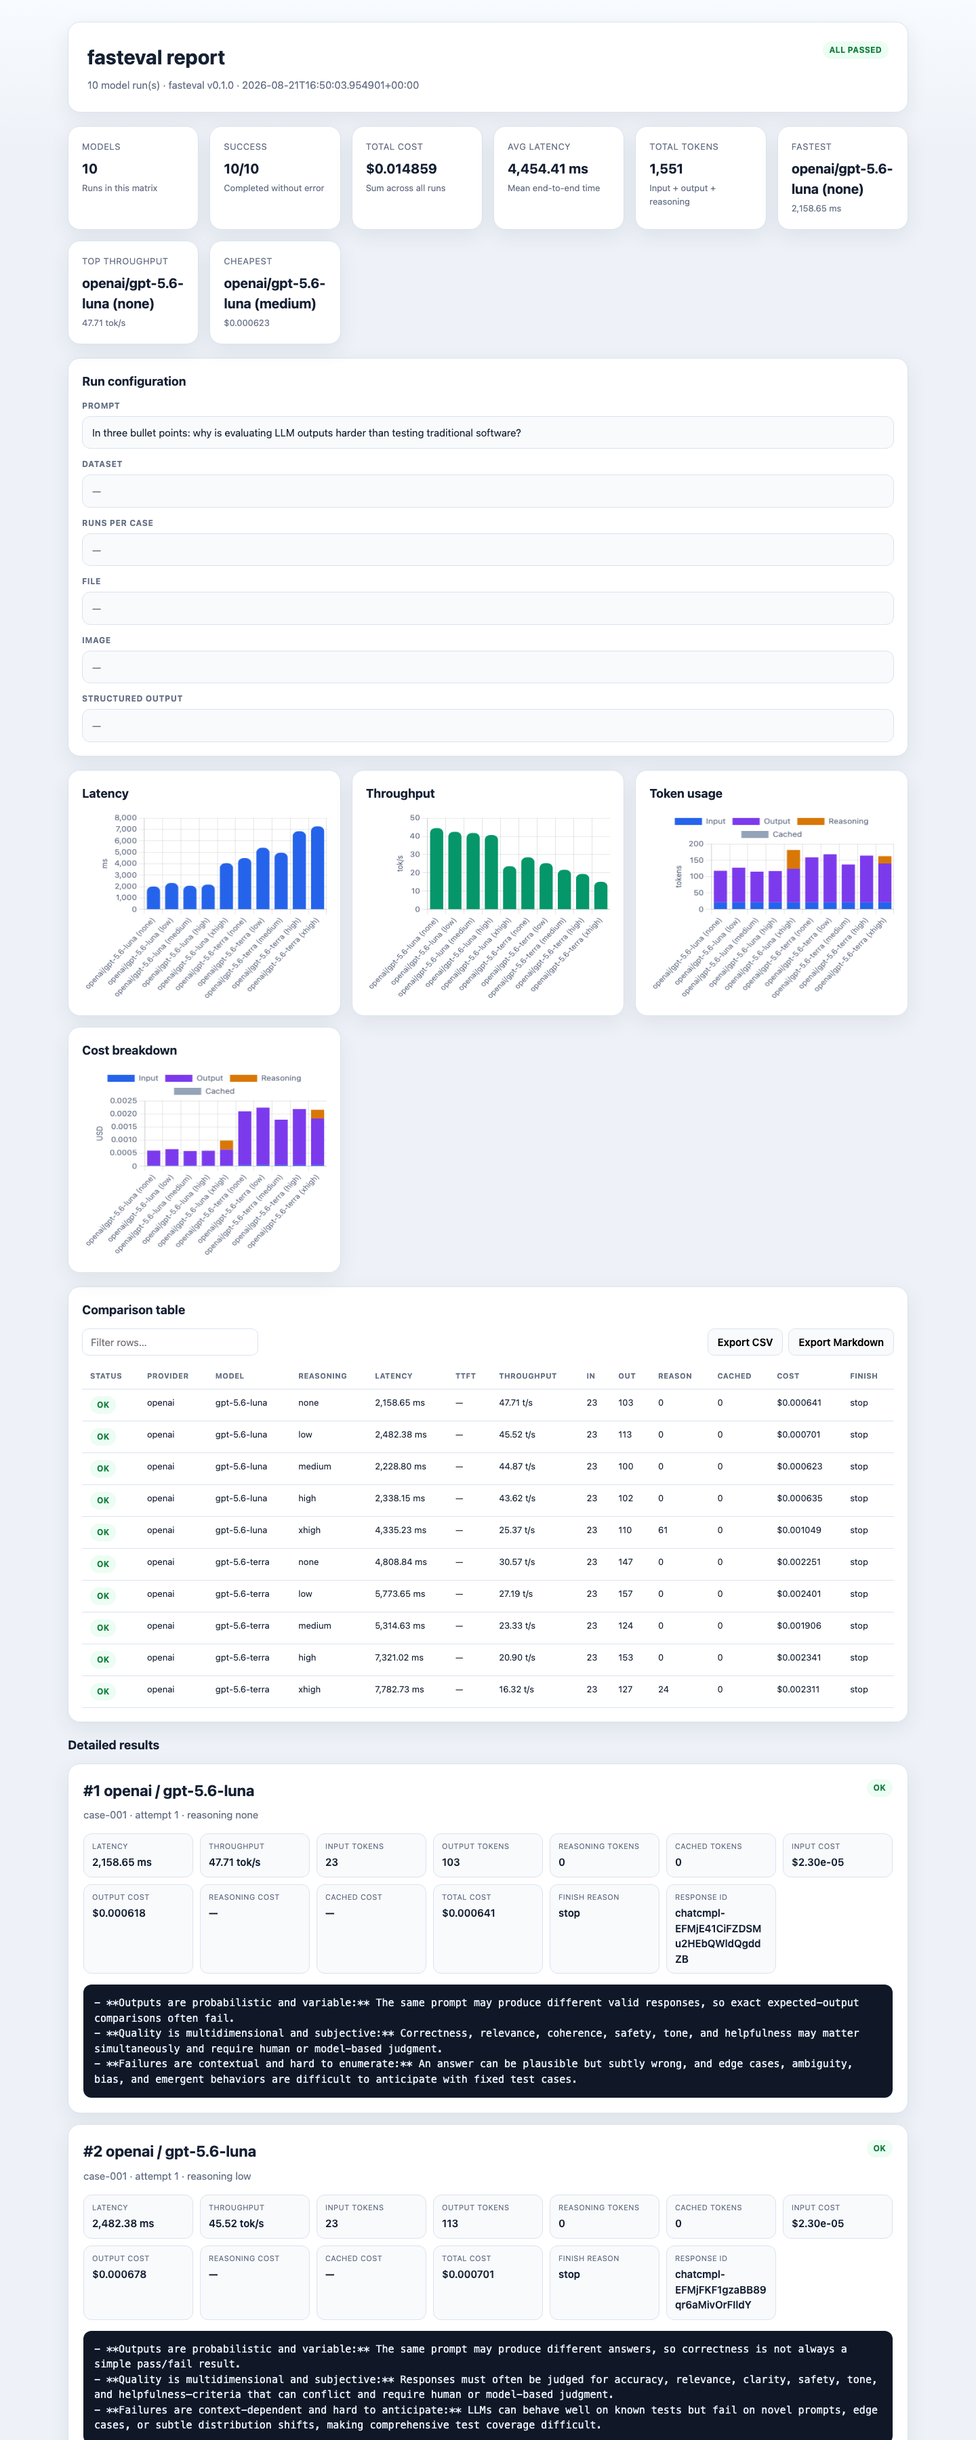
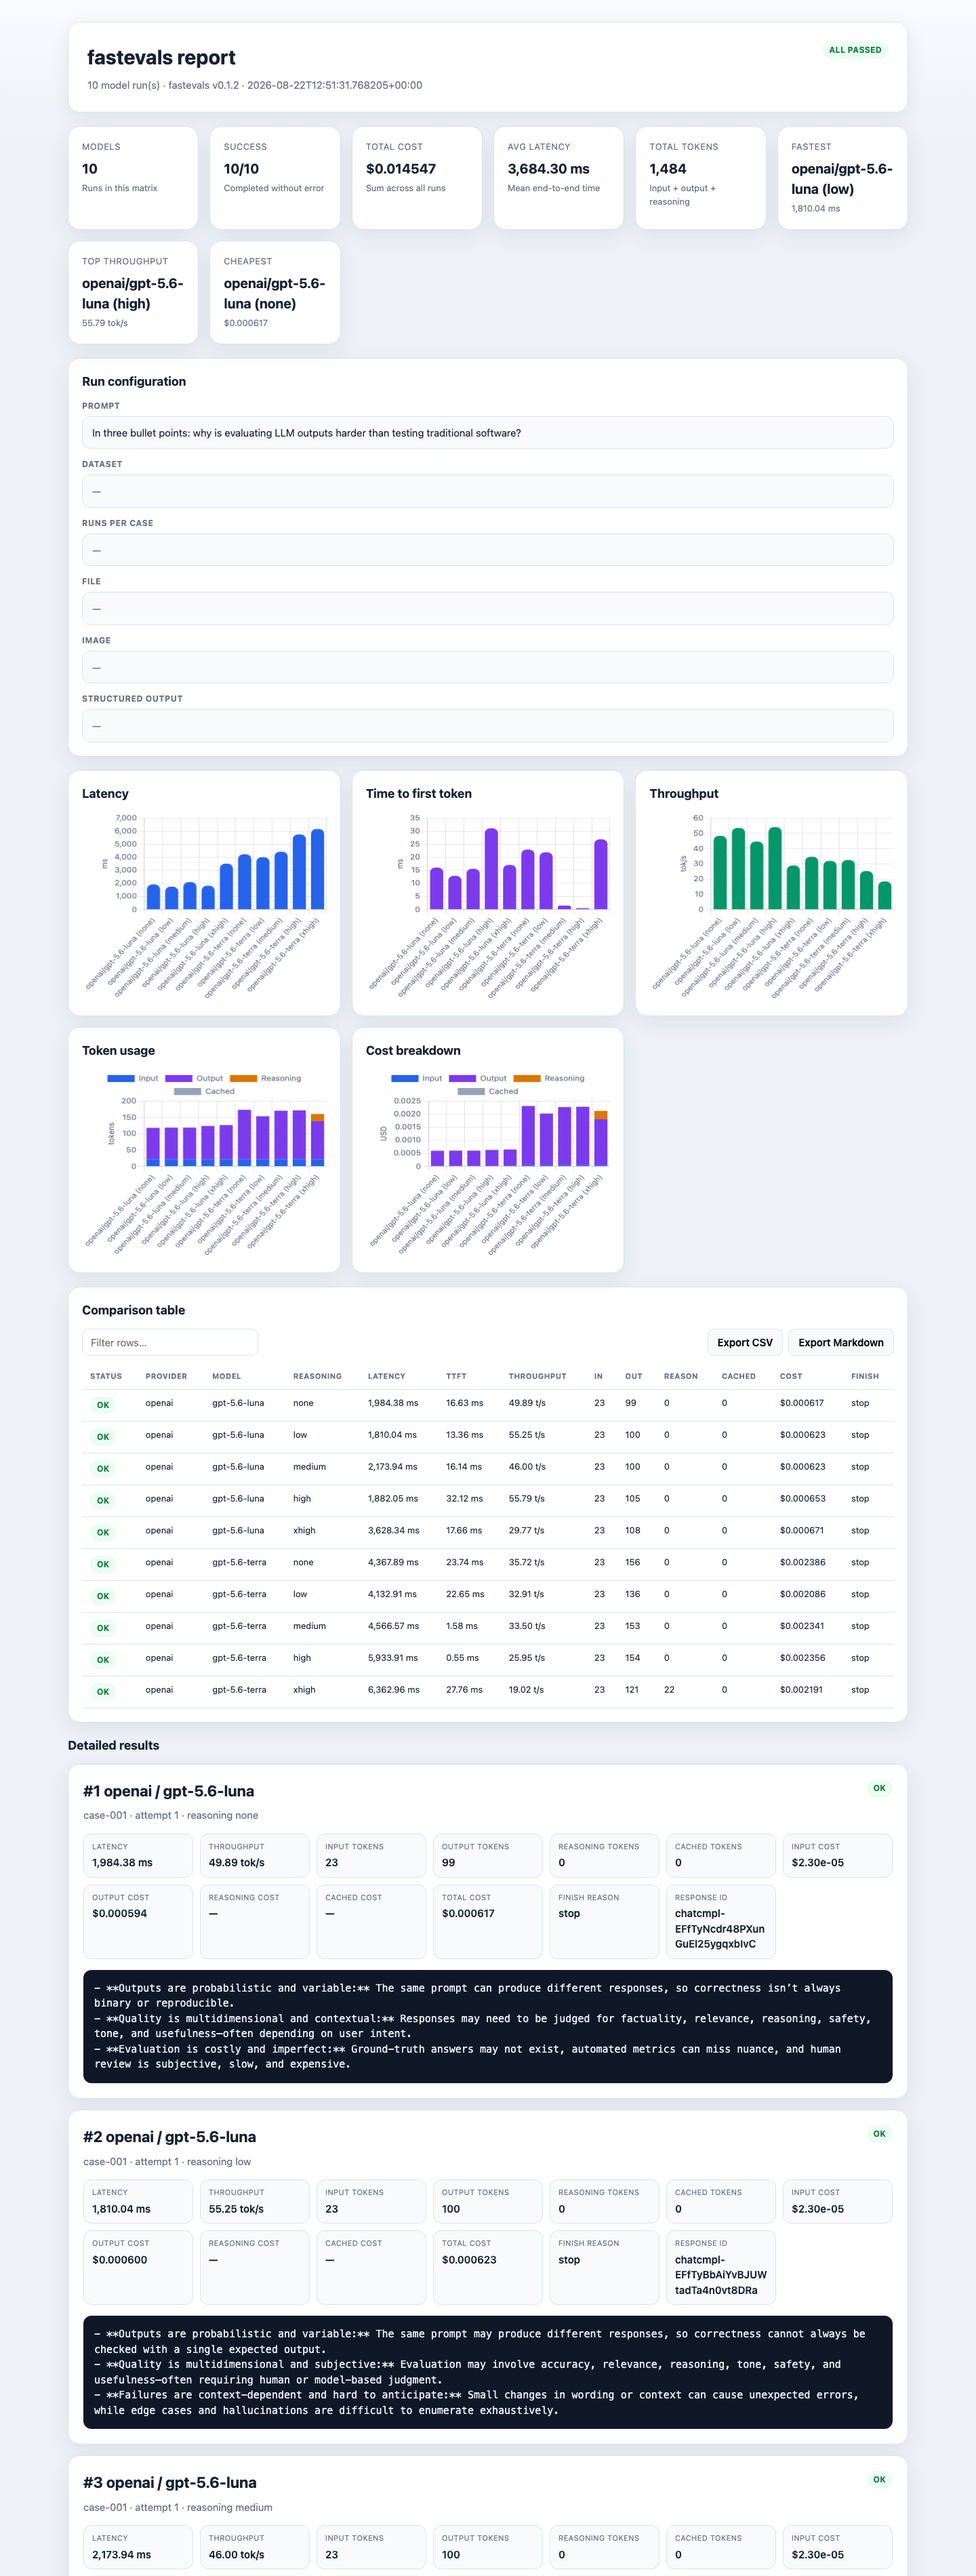
Stream completions by default: real time-to-first-token metric
- call_model streams via litellm (stream_options.include_usage) and
  measures TTFT from the first content chunk; token accounting comes
  from the final usage chunk
- Providers/stubs that cannot stream fall back to plain parsing with
  TTFT reported honestly as unavailable — zero breaking change for
  existing integrations, covered by dedicated tests both ways
- Dashboard gains a Time-to-first-token chart next to latency; the
  comparison table now shows measured values instead of dashes
- README limitation replaced by a feature; ROADMAP streaming item done

diff --git a/fastevals/providers.py b/fastevals/providers.py
@@ -4,6 +4,7 @@ import asyncio
 import base64
 import mimetypes
 import os
+import time
 from pathlib import Path
 from typing import Any
 
@@ -117,6 +118,8 @@ def _build_request(
         "messages": build_messages(prompt, file_paths or None),
         "api_key": api_key,
         "timeout": spec.timeout_s,
+        "stream": True,
+        "stream_options": {"include_usage": True},
     }
     if spec.reasoning_effort and spec.reasoning_effort not in ("off", "none"):
         request["reasoning_effort"] = spec.reasoning_effort
@@ -154,4 +157,60 @@ async def call_model(
             if attempt == attempts - 1:
                 raise
             await _sleep(RETRY_BASE_DELAY_S * (2**attempt))
-    return parse_response(response)
+    return await _finalize_response(response)
+
+
+async def _finalize_response(response: Any) -> ModelResponse:
+    """Prefer streamed chunks (gives a real TTFT), fall back to plain parsing.
+
+    Providers and stubs that do not stream surface as iteration errors on
+    the returned object; the non-streaming parse then applies unchanged.
+    """
+    try:
+        return await _consume_stream(response)
+    except (TypeError, AttributeError):
+        return parse_response(response)
+
+
+async def _consume_stream(stream: Any) -> ModelResponse:
+    started = time.perf_counter()
+    ttft_ms: float | None = None
+    parts: list[str] = []
+    usage: Any = None
+    finish_reason: str | None = None
+    response_id: str | None = None
+
+    async for chunk in stream:
+        choices = getattr(chunk, "choices", None) or []
+        if not choices:
+            usage = getattr(chunk, "usage", None) or usage
+            continue
+        first = choices[0]
+        delta_content = getattr(getattr(first, "delta", None), "content", None) or getattr(first, "text", None)
+        if delta_content:
+            if ttft_ms is None:
+                ttft_ms = (time.perf_counter() - started) * 1000
+            parts.append(delta_content)
+        if getattr(first, "finish_reason", None):
+            finish_reason = first.finish_reason
+        if getattr(chunk, "usage", None):
+            usage = chunk.usage
+        response_id = getattr(chunk, "id", None) or response_id
+
+    if not parts and usage is None and finish_reason is None:
+        # Nothing stream-shaped arrived; let the caller fall back.
+        raise TypeError("response is not a completion stream")
+
+    text = "".join(parts)
+    cached = getattr(getattr(usage, "prompt_tokens_details", None), "cached_tokens", 0) or 0
+    reasoning = getattr(getattr(usage, "completion_tokens_details", None), "reasoning_tokens", 0) or 0
+    return ModelResponse(
+        text=text,
+        input_tokens=max(0, (getattr(usage, "prompt_tokens", 0) or 0) - cached),
+        output_tokens=max(0, (getattr(usage, "completion_tokens", 0) or 0) - reasoning),
+        cached_tokens=cached,
+        reasoning_tokens=reasoning,
+        finish_reason=finish_reason or "completed",
+        response_id=response_id or "",
+        time_to_first_token_ms=ttft_ms,
+    )

diff --git a/tests/test_runner_run.py b/tests/test_runner_run.py
@@ -3,6 +3,7 @@ from pathlib import Path
 
 import pytest
 
+from fastevals import providers
 from fastevals.config import RunConfig
 from fastevals.exceptions import ConfigError, FastEvalError
 from fastevals.runner import run_evals
@@ -216,3 +217,58 @@ async def test_unknown_tag_in_run_fails_with_guidance(tmp_path, openai_registry,
         await run_evals(RunConfig(prompt="hi", registry=str(openai_registry), tag="nope"))
     assert "saved:" in str(excinfo.value)
     assert "built-in: auto-cheap" in str(excinfo.value)
+
+
+def _stream_chunks(text="streamed answer", prompt_tokens=100, completion_tokens=30):
+    """Build an async iterator shaped like a litellm streaming response."""
+    from types import SimpleNamespace
+
+    async def _stream(**request):
+        async def gen():
+            for part in (text[:4], text[4:]):
+                if not part:
+                    continue
+                yield SimpleNamespace(
+                    choices=[SimpleNamespace(delta=SimpleNamespace(content=part), finish_reason=None)],
+                    usage=None,
+                    id="chatcmpl-stream",
+                )
+            yield SimpleNamespace(
+                choices=[],
+                usage=SimpleNamespace(
+                    prompt_tokens=prompt_tokens,
+                    completion_tokens=completion_tokens,
+                    prompt_tokens_details=SimpleNamespace(cached_tokens=0),
+                    completion_tokens_details=SimpleNamespace(reasoning_tokens=0),
+                ),
+            )
+            yield SimpleNamespace(
+                choices=[SimpleNamespace(delta=SimpleNamespace(content=None), finish_reason="stop")],
+                usage=None,
+                id="chatcmpl-stream",
+            )
+
+        return gen()
+
+    return _stream
+
+
+@pytest.mark.asyncio
+async def test_streaming_measures_ttft_and_usage(tmp_path, monkeypatch, api_key, openai_registry):
+    monkeypatch.setattr(providers, "_litellm_completion", _stream_chunks())
+    results = await run_evals(RunConfig(prompt="hi", providers=frozenset({"openai"}), registry=str(openai_registry)))
+    row = results[0]
+    assert row.output == "streamed answer"
+    assert row.time_to_first_token_ms is not None
+    assert 0 < row.time_to_first_token_ms <= (row.latency_ms or 0)
+    assert row.input_tokens == 100 and row.output_tokens == 30
+
+
+@pytest.mark.asyncio
+async def test_non_stream_response_falls_back_to_plain_parse(tmp_path, fake_llm, api_key, openai_registry):
+    calls = fake_llm(text="plain")
+    results = await run_evals(RunConfig(prompt="hi", providers=frozenset({"openai"}), registry=str(openai_registry)))
+    assert all(row.output == "plain" for row in results)
+    # fallback path: TTFT honestly unknown without stream chunks
+    assert all(row.time_to_first_token_ms is None for row in results)
+    assert len(calls) == 2

diff --git a/fastevals/report.py b/fastevals/report.py
@@ -266,6 +266,7 @@ def _chart_payload(results: list[RunResult]) -> dict[str, Any]:
     return {
         "labels": labels,
         "latency_ms": [row.latency_ms or 0 for row in results],
+        "ttft_ms": [row.time_to_first_token_ms or 0 for row in results],
         "tokens_per_second": [row.tokens_per_second or 0 for row in results],
         "input_tokens": [row.input_tokens or 0 for row in results],
         "output_tokens": [row.output_tokens or 0 for row in results],
@@ -621,6 +622,7 @@ def render_html_report(config: RunConfig, results: list[RunResult], created_at: 
 
     <section class="grid charts-grid">
       <div class="card"><h2 class="section-title">Latency</h2><canvas id="latencyChart"></canvas></div>
+      <div class="card"><h2 class="section-title">Time to first token</h2><canvas id="ttftChart"></canvas></div>
       <div class="card"><h2 class="section-title">Throughput</h2><canvas id="throughputChart"></canvas></div>
       <div class="card"><h2 class="section-title">Token usage</h2><canvas id="tokensChart"></canvas></div>
       <div class="card"><h2 class="section-title">Cost breakdown</h2><canvas id="costChart"></canvas></div>
@@ -654,6 +656,25 @@ def render_html_report(config: RunConfig, results: list[RunResult], created_at: 
           label: "Latency (ms)",
           data: chartData.latency_ms,
           backgroundColor: statusColors,
+          borderRadius: 8,
+        }}],
+      }},
+      options: {{
+        responsive: true,
+        maintainAspectRatio: false,
+        plugins: {{ legend: {{ display: false }} }},
+        scales: {{ y: {{ beginAtZero: true, title: {{ display: true, text: "ms" }} }} }},
+      }},
+    }});
+
+    new Chart(document.getElementById("ttftChart"), {{
+      type: "bar",
+      data: {{
+        labels: chartData.labels,
+        datasets: [{{
+          label: "TTFT (ms)",
+          data: chartData.ttft_ms,
+          backgroundColor: "#7c3aed",
           borderRadius: 8,
         }}],
       }},

diff --git a/fastevals/runner.py b/fastevals/runner.py
@@ -87,7 +87,7 @@ async def run_evals(config: RunConfig) -> list[RunResult]:
                 response_id=response.response_id or "",
                 error="",
                 latency_ms=latency_ms,
-                time_to_first_token_ms=None,
+                time_to_first_token_ms=response.time_to_first_token_ms,
                 tokens_per_second=tokens_per_second,
             )
         except Exception as exc:  # Keep the matrix report useful when one provider fails.

diff --git a/fastevals/models.py b/fastevals/models.py
@@ -17,6 +17,7 @@ class ModelResponse:
     cached_tokens: int | None = None
     finish_reason: str | None = None
     response_id: str | None = None
+    time_to_first_token_ms: float | None = None
 
 
 @dataclass

diff --git a/README.md b/README.md
@@ -131,7 +131,7 @@ always reflect the current registry, so they never go stale.
 ## Why fastevals
 
 - **Structured output that verifies** — compact schema syntax compiles to JSON Schema, is sent to the provider, and every response is validated locally before it reaches `run.json`.
-- **Honest metrics** — disjoint token buckets (input / output / reasoning / cached), per-bucket pricing from your registry, no fake TTFT without streaming.
+- **Honest metrics** — disjoint token buckets (input / output / reasoning / cached), per-bucket pricing from your registry, real time-to-first-token via streamed completions.
 - **Real evaluation loop** — JSONL/CSV datasets, deterministic evaluators (`exact_match`, `contains`, `json_valid`, `regex`), repeated runs for stability.
 - **Boring engineering** — strict typing, ~90% branch coverage, ruff + mypy + coverage gates in CI, single-file reports with zero telemetry.
 
@@ -317,7 +317,7 @@ stub at the LiteLLM boundary; live API calls never run in CI.
 
 ## Limitations (by design)
 
-- No streaming yet — TTFT is reported as unavailable rather than faked; latency and throughput are end-to-end.
+- Streaming-dependent providers only: TTFT is measured from streamed completions; a provider that cannot stream reports it honestly as unavailable.
 - One prompt template per case; no few-shot templating or conversation history.
 - Evaluators are deterministic heuristics; LLM-as-judge scoring is not included.
 - Pricing comes from your registry, not a live price feed — keep it current.

diff --git a/docs/ROADMAP.md b/docs/ROADMAP.md
@@ -44,8 +44,9 @@ from a comparison tool into an engineering tool.
 
 ### P3 — Metrics and scenarios
 
-- **Streaming completions** for real time-to-first-token and incremental
-  throughput curves.
+- ~~Streaming completions~~ — shipped: TTFT is measured on streamed
+  completions with automatic non-streaming fallback.
+- **Incremental throughput curves** per run (streaming groundwork done).
 - **Local models** via ollama/vLLM for free, private experimentation.
 - **System prompts and multi-turn cases** — real applications are dialogs.
 - **Prompt templating** with dataset variables for few-shot cases.
